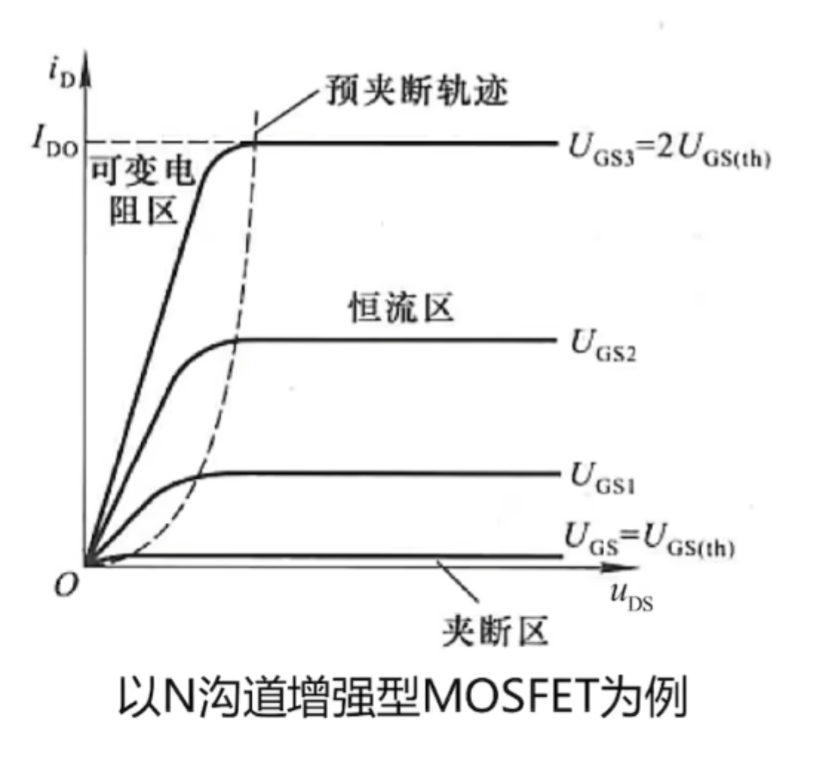
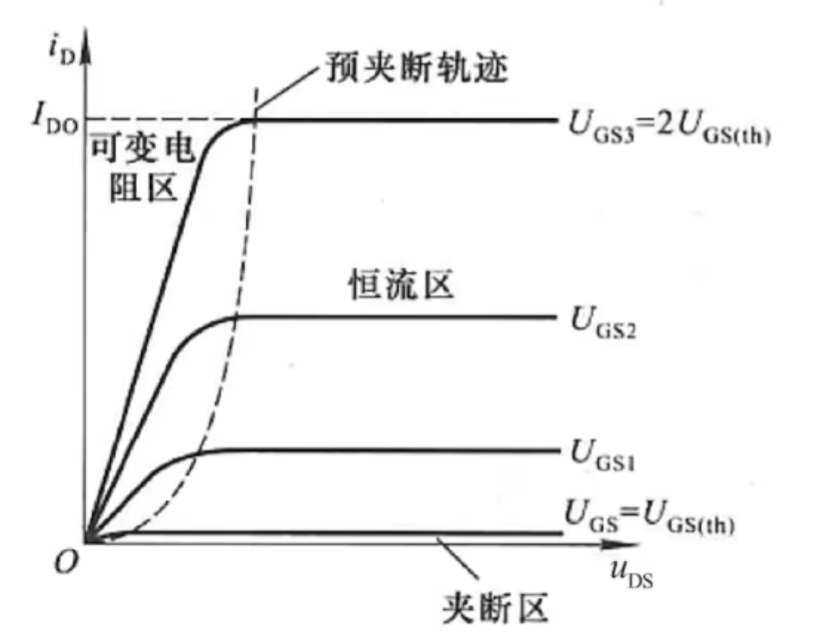
Site updated: 2026-06-23 17:05:33

Changed region(s): [[0.0307, 0.0623, 0.9521, 0.9969], [0.0614, 0.0312, 0.1229, 0.1246]]

diff --git a/2026/06/15/电子电路基础及实验/模电/index.html b/2026/06/15/电子电路基础及实验/模电/index.html
@@ -28,10 +28,11 @@
 <meta property="og:description" content="二极管 向本征半导体中掺杂 5 价元素得到 N 型半导体；掺杂 3 价元素得到 P 型半导体 PN 结上电流和电压之间的关系：$i_D&#x3D;I_S[e^{(\frac{v_D}{nV_T})}-1]$  式中，$I_s$ 为反向饱和电流  动态电阻：$r_d&#x3D;\frac{V_T}{I_{DQ}}$ 三极管 当 BJT 工作在放大区时，发射结电压正偏；集电结电压反偏。 根据特性曲线，双极型晶体管可以分为">
 <meta property="og:locale" content="zh_CN">
 <meta property="og:image" content="http://example.com/2026/06/15/%E7%94%B5%E5%AD%90%E7%94%B5%E8%B7%AF%E5%9F%BA%E7%A1%80%E5%8F%8A%E5%AE%9E%E9%AA%8C/%E6%A8%A1%E7%94%B5/image.png">
+<meta property="og:image" content="http://example.com/2026/06/15/%E7%94%B5%E5%AD%90%E7%94%B5%E8%B7%AF%E5%9F%BA%E7%A1%80%E5%8F%8A%E5%AE%9E%E9%AA%8C/%E6%A8%A1%E7%94%B5/image3.png">
 <meta property="og:image" content="http://example.com/2026/06/15/%E7%94%B5%E5%AD%90%E7%94%B5%E8%B7%AF%E5%9F%BA%E7%A1%80%E5%8F%8A%E5%AE%9E%E9%AA%8C/%E6%A8%A1%E7%94%B5/image1.png">
 <meta property="og:image" content="http://example.com/2026/06/15/%E7%94%B5%E5%AD%90%E7%94%B5%E8%B7%AF%E5%9F%BA%E7%A1%80%E5%8F%8A%E5%AE%9E%E9%AA%8C/%E6%A8%A1%E7%94%B5/image2.png">
 <meta property="article:published_time" content="2026-06-15T12:02:10.000Z">
-<meta property="article:modified_time" content="2026-06-23T08:16:38.213Z">
+<meta property="article:modified_time" content="2026-06-23T09:05:20.540Z">
 <meta property="article:author" content="Fish">
 <meta name="twitter:card" content="summary">
 <meta name="twitter:image" content="http://example.com/2026/06/15/%E7%94%B5%E5%AD%90%E7%94%B5%E8%B7%AF%E5%9F%BA%E7%A1%80%E5%8F%8A%E5%AE%9E%E9%AA%8C/%E6%A8%A1%E7%94%B5/image.png">
@@ -184,7 +185,7 @@
                   <i class="far fa-calendar-check"></i>
                 </span>
                 <span class="post-meta-item-text">更新于</span>
-                <time title="修改时间：2026-06-23 16:16:38" itemprop="dateModified" datetime="2026-06-23T16:16:38+08:00">2026-06-23</time>
+                <time title="修改时间：2026-06-23 17:05:20" itemprop="dateModified" datetime="2026-06-23T17:05:20+08:00">2026-06-23</time>
               </span>
             <span class="post-meta-item">
               <span class="post-meta-item-icon">
@@ -202,7 +203,7 @@
                 <i class="far fa-file-word"></i>
               </span>
                 <span class="post-meta-item-text">本文字数：</span>
-              <span>640</span>
+              <span>706</span>
             </span>
             <span class="post-meta-item" title="阅读时长">
               <span class="post-meta-item-icon">
@@ -241,13 +242,16 @@
 <li>求小信号电压增益/输入、输出电阻</li>
 </ol>
 <h2 id="场效应管">场效应管</h2>
+<h4 id="场效应管与晶体管的对比：">场效应管与晶体管的对比：</h4>
+<div align="center"><img src="/2026/06/15/%E7%94%B5%E5%AD%90%E7%94%B5%E8%B7%AF%E5%9F%BA%E7%A1%80%E5%8F%8A%E5%AE%9E%E9%AA%8C/%E6%A8%A1%E7%94%B5/image3.png" width="380" height="200"></div>
 <p>根据特性曲线，场效应晶体管可以分为三个区：<strong>截止区</strong>、<strong>线性区</strong>（可变电阻区）、<strong>恒流区</strong>（饱和区）</p>
 <p>双极型晶体管与场效应管最大的区别在于：<strong>双极型晶体管（BJT）是电流控制型器件，而场效应管（FET）是电压控制型器件</strong></p>
 <p>输出特性曲线$(i_D - u_{DS})$：</p>
-<div align="center"><img src="/2026/06/15/%E7%94%B5%E5%AD%90%E7%94%B5%E8%B7%AF%E5%9F%BA%E7%A1%80%E5%8F%8A%E5%AE%9E%E9%AA%8C/%E6%A8%A1%E7%94%B5/image1.png" width="300" height="300"></div>
+<div align="center"><img src="/2026/06/15/%E7%94%B5%E5%AD%90%E7%94%B5%E8%B7%AF%E5%9F%BA%E7%A1%80%E5%8F%8A%E5%AE%9E%E9%AA%8C/%E6%A8%A1%E7%94%B5/image1.png" width="230" height="200"></div>
 <p>转移特性曲线$(i_D - u_{GS})$：</p>
-<div align="center"><img src="/2026/06/15/%E7%94%B5%E5%AD%90%E7%94%B5%E8%B7%AF%E5%9F%BA%E7%A1%80%E5%8F%8A%E5%AE%9E%E9%AA%8C/%E6%A8%A1%E7%94%B5/image2.png" width="250" height="300"></div>
+<div align="center"><img src="/2026/06/15/%E7%94%B5%E5%AD%90%E7%94%B5%E8%B7%AF%E5%9F%BA%E7%A1%80%E5%8F%8A%E5%AE%9E%E9%AA%8C/%E6%A8%A1%E7%94%B5/image2.png" width="200" height="210"></div>
 <p>工作在饱和区时：$i_D=K_n(v_{GS}-V_{TN})^2=\frac{1}{2}k_n’(\frac{W}{L})(v_{GS}-V_{TN})^2$</p>
+<p>跨导：$g_m=\left. \frac{\Delta i_D}{\Delta u_{GS}}\right|_Q$</p>
 
     </div>
 
@@ -325,7 +329,7 @@
 
       <!--noindex-->
       <div class="post-toc-wrap sidebar-panel">
-          <div class="post-toc motion-element"><ol class="nav"><li class="nav-item nav-level-2"><a class="nav-link" href="#%E4%BA%8C%E6%9E%81%E7%AE%A1"><span class="nav-number">1.</span> <span class="nav-text">二极管</span></a></li><li class="nav-item nav-level-2"><a class="nav-link" href="#%E4%B8%89%E6%9E%81%E7%AE%A1"><span class="nav-number">2.</span> <span class="nav-text">三极管</span></a><ol class="nav-child"><li class="nav-item nav-level-4"><a class="nav-link" href="#%E6%88%AA%E6%AD%A2%E5%A4%B1%E7%9C%9F%E4%B8%8E%E9%A5%B1%E5%92%8C%E5%A4%B1%E7%9C%9F%EF%BC%9A"><span class="nav-number">2.0.1.</span> <span class="nav-text">截止失真与饱和失真：</span></a></li><li class="nav-item nav-level-4"><a class="nav-link" href="#BJT-%E4%B8%80%E8%88%AC%E8%A7%A3%E9%A2%98%E6%B5%81%E7%A8%8B%EF%BC%9A"><span class="nav-number">2.0.2.</span> <span class="nav-text">BJT 一般解题流程：</span></a></li></ol></li></ol></li><li class="nav-item nav-level-2"><a class="nav-link" href="#%E5%9C%BA%E6%95%88%E5%BA%94%E7%AE%A1"><span class="nav-number">3.</span> <span class="nav-text">场效应管</span></a></li></ol></div>
+          <div class="post-toc motion-element"><ol class="nav"><li class="nav-item nav-level-2"><a class="nav-link" href="#%E4%BA%8C%E6%9E%81%E7%AE%A1"><span class="nav-number">1.</span> <span class="nav-text">二极管</span></a></li><li class="nav-item nav-level-2"><a class="nav-link" href="#%E4%B8%89%E6%9E%81%E7%AE%A1"><span class="nav-number">2.</span> <span class="nav-text">三极管</span></a><ol class="nav-child"><li class="nav-item nav-level-4"><a class="nav-link" href="#%E6%88%AA%E6%AD%A2%E5%A4%B1%E7%9C%9F%E4%B8%8E%E9%A5%B1%E5%92%8C%E5%A4%B1%E7%9C%9F%EF%BC%9A"><span class="nav-number">2.0.1.</span> <span class="nav-text">截止失真与饱和失真：</span></a></li><li class="nav-item nav-level-4"><a class="nav-link" href="#BJT-%E4%B8%80%E8%88%AC%E8%A7%A3%E9%A2%98%E6%B5%81%E7%A8%8B%EF%BC%9A"><span class="nav-number">2.0.2.</span> <span class="nav-text">BJT 一般解题流程：</span></a></li></ol></li></ol></li><li class="nav-item nav-level-2"><a class="nav-link" href="#%E5%9C%BA%E6%95%88%E5%BA%94%E7%AE%A1"><span class="nav-number">3.</span> <span class="nav-text">场效应管</span></a><ol class="nav-child"><li class="nav-item nav-level-4"><a class="nav-link" href="#%E5%9C%BA%E6%95%88%E5%BA%94%E7%AE%A1%E4%B8%8E%E6%99%B6%E4%BD%93%E7%AE%A1%E7%9A%84%E5%AF%B9%E6%AF%94%EF%BC%9A"><span class="nav-number">3.0.1.</span> <span class="nav-text">场效应管与晶体管的对比：</span></a></li></ol></li></ol></li></ol></div>
       </div>
       <!--/noindex-->
 

diff --git a/index.html b/index.html
@@ -178,7 +178,7 @@
                   <i class="far fa-calendar-check"></i>
                 </span>
                 <span class="post-meta-item-text">更新于</span>
-                <time title="修改时间：2026-06-23 16:16:38" itemprop="dateModified" datetime="2026-06-23T16:16:38+08:00">2026-06-23</time>
+                <time title="修改时间：2026-06-23 17:05:20" itemprop="dateModified" datetime="2026-06-23T17:05:20+08:00">2026-06-23</time>
               </span>
             <span class="post-meta-item">
               <span class="post-meta-item-icon">
@@ -196,7 +196,7 @@
                 <i class="far fa-file-word"></i>
               </span>
                 <span class="post-meta-item-text">本文字数：</span>
-              <span>640</span>
+              <span>706</span>
             </span>
             <span class="post-meta-item" title="阅读时长">
               <span class="post-meta-item-icon">
@@ -235,13 +235,16 @@
 <li>求小信号电压增益/输入、输出电阻</li>
 </ol>
 <h2 id="场效应管">场效应管</h2>
+<h4 id="场效应管与晶体管的对比：">场效应管与晶体管的对比：</h4>
+<div align="center"><img src="/2026/06/15/%E7%94%B5%E5%AD%90%E7%94%B5%E8%B7%AF%E5%9F%BA%E7%A1%80%E5%8F%8A%E5%AE%9E%E9%AA%8C/%E6%A8%A1%E7%94%B5/image3.png" width="380" height="200"></div>
 <p>根据特性曲线，场效应晶体管可以分为三个区：<strong>截止区</strong>、<strong>线性区</strong>（可变电阻区）、<strong>恒流区</strong>（饱和区）</p>
 <p>双极型晶体管与场效应管最大的区别在于：<strong>双极型晶体管（BJT）是电流控制型器件，而场效应管（FET）是电压控制型器件</strong></p>
 <p>输出特性曲线$(i_D - u_{DS})$：</p>
-<div align="center"><img src="/2026/06/15/%E7%94%B5%E5%AD%90%E7%94%B5%E8%B7%AF%E5%9F%BA%E7%A1%80%E5%8F%8A%E5%AE%9E%E9%AA%8C/%E6%A8%A1%E7%94%B5/image1.png" width="300" height="300"></div>
+<div align="center"><img src="/2026/06/15/%E7%94%B5%E5%AD%90%E7%94%B5%E8%B7%AF%E5%9F%BA%E7%A1%80%E5%8F%8A%E5%AE%9E%E9%AA%8C/%E6%A8%A1%E7%94%B5/image1.png" width="230" height="200"></div>
 <p>转移特性曲线$(i_D - u_{GS})$：</p>
-<div align="center"><img src="/2026/06/15/%E7%94%B5%E5%AD%90%E7%94%B5%E8%B7%AF%E5%9F%BA%E7%A1%80%E5%8F%8A%E5%AE%9E%E9%AA%8C/%E6%A8%A1%E7%94%B5/image2.png" width="250" height="300"></div>
+<div align="center"><img src="/2026/06/15/%E7%94%B5%E5%AD%90%E7%94%B5%E8%B7%AF%E5%9F%BA%E7%A1%80%E5%8F%8A%E5%AE%9E%E9%AA%8C/%E6%A8%A1%E7%94%B5/image2.png" width="200" height="210"></div>
 <p>工作在饱和区时：$i_D=K_n(v_{GS}-V_{TN})^2=\frac{1}{2}k_n’(\frac{W}{L})(v_{GS}-V_{TN})^2$</p>
+<p>跨导：$g_m=\left. \frac{\Delta i_D}{\Delta u_{GS}}\right|_Q$</p>
 
       
     </div>

diff --git a/css/main.css b/css/main.css
@@ -1168,7 +1168,7 @@ pre .javascript .function {
 }
 .links-of-author a::before,
 .links-of-author span.exturl::before {
-  background: #c9d536;
+  background: #d277af;
   border-radius: 50%;
   content: ' ';
   display: inline-block;
